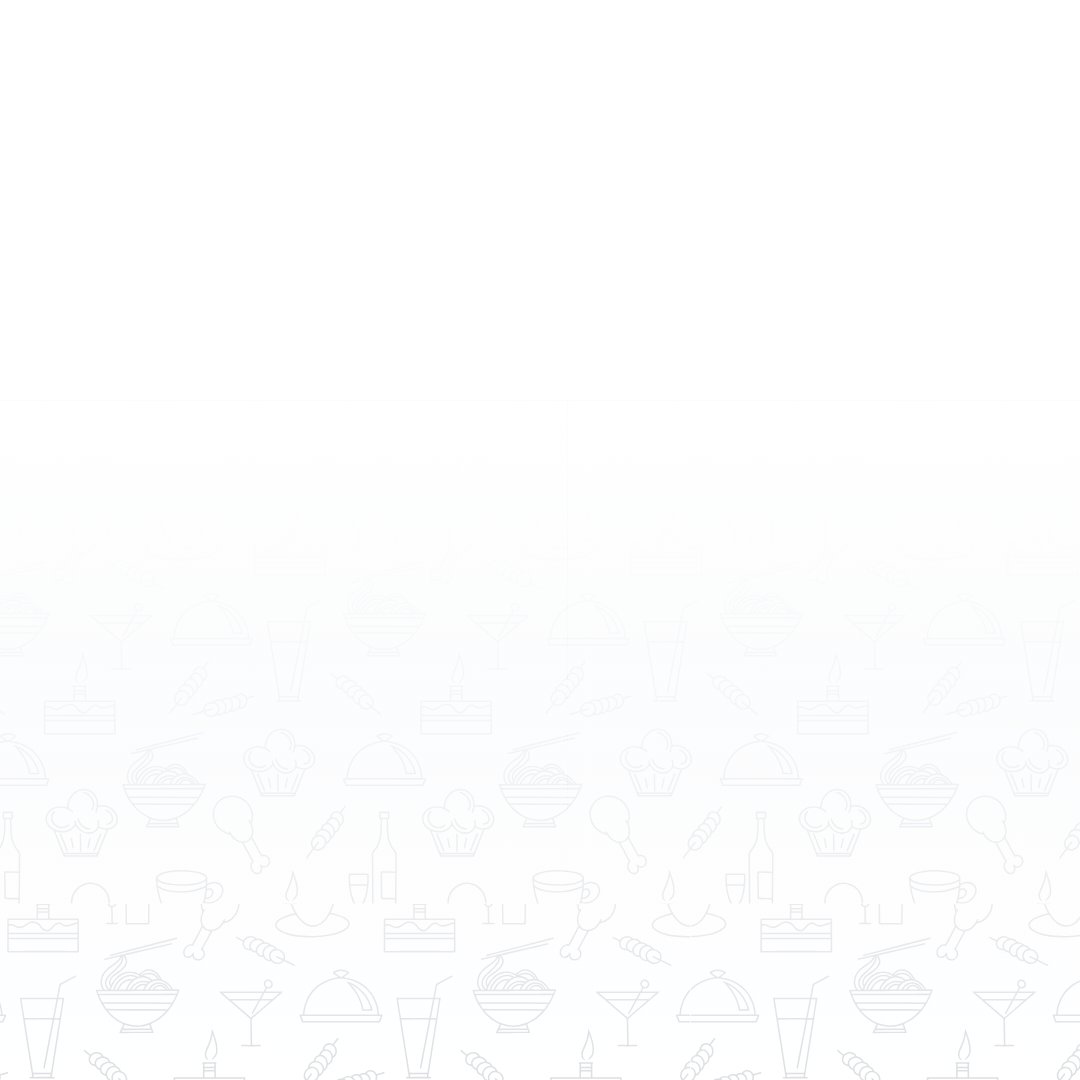
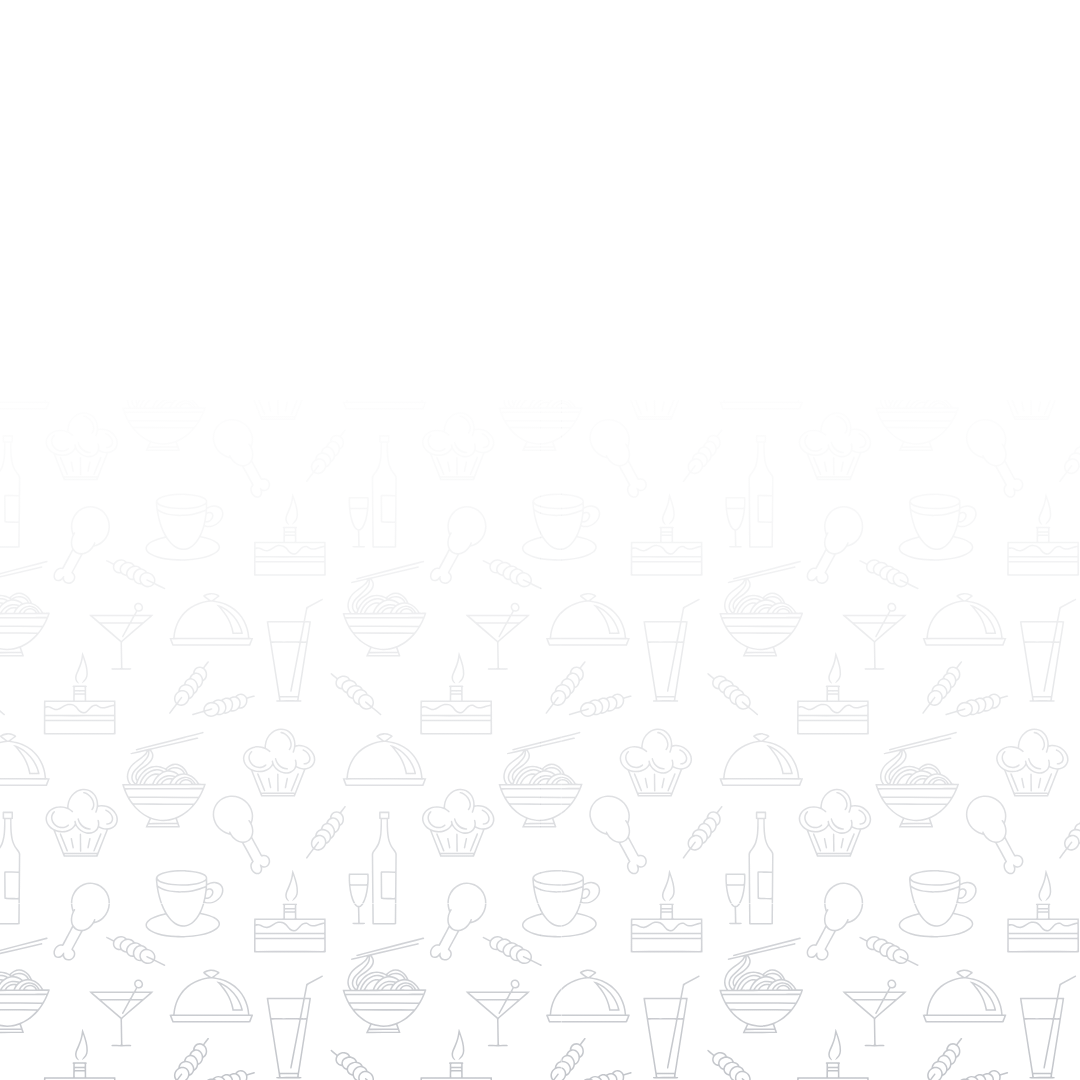
Added: Home, Cart, Favorites, Profile MockupScreens in works

diff --git a/src/app/pages/login/login.page.ts b/src/app/pages/login/login.page.ts
@@ -73,7 +73,7 @@ export class LoginPage implements OnInit, OnDestroy {
 
     const { correo, contrasena } = this.credentials.getRawValue();
 
-    // ✅ USAR email y password como requiere Supabase
+    //USAR email y password como requiere Supabase
     const { data, error } = await this.authService.signIn({
       email: correo,
       password: contrasena,
@@ -118,7 +118,7 @@ export class LoginPage implements OnInit, OnDestroy {
       if (!data) {
         console.log('Insertando perfil completo por primera vez');
 
-        // ✅ Cargar datos temporales si existen
+        // Cargar datos temporales si existen
         const tempData = localStorage.getItem('registro_temp');
         if (tempData) {
           try {
@@ -126,7 +126,7 @@ export class LoginPage implements OnInit, OnDestroy {
             perfilBase.nombre = parsed.nombre || '';
             perfilBase.direccion = parsed.direccion || '';
             perfilBase.telefono = parsed.telefono || '';
-            localStorage.removeItem('registro_temp'); // ✅ Limpiar
+            localStorage.removeItem('registro_temp'); //Limpiar
           } catch (e) {
             console.warn('No se pudo parsear datos de registro_temp');
           }
@@ -140,9 +140,9 @@ export class LoginPage implements OnInit, OnDestroy {
           });
 
         if (error) {
-          console.error('❌ Error al insertar perfil:', error.message);
+          console.error('Error al insertar perfil:', error.message);
         } else {
-          console.log('✅ Perfil insertado correctamente');
+          console.log('Perfil insertado correctamente');
         }
       } else {
         console.log('Perfil ya existe, no se inserta');

diff --git a/src/app/components/navbar/navbar.component.scss b/src/app/components/navbar/navbar.component.scss
@@ -1,0 +1,55 @@
+$primary-yellow: #fab222;
+$primary-red: #8d2516;
+$hover-yellow: #e5a422;
+$color-dark: #120000;
+$white: #ffffff;
+$text-dark: #151515;
+$font-family: "Inter", sans-serif;
+
+.main-navbar-container {
+  position: fixed;
+  bottom: 0;
+  left: 0;
+  right: 0;
+  z-index: 10;
+  display: flex;
+  gap: 25px;
+  justify-content: space-between;
+  align-items: center;
+  padding: 1rem;
+  background-color: $primary-yellow;
+  color: $white;
+  font-family: $font-family;
+  border: 3px solid #120000;
+  height: 90px;
+  margin: 0px 1.3em;
+  margin-bottom: 2.8em;
+  border-radius: 40px; // ✅ Sin bordes redondos si es full width
+}
+
+button {
+  background-color: $hover-yellow;
+  display: flex;
+  height: 100%;
+  border-radius: 20px;
+  align-items: center;
+  justify-items: center;
+  justify-content: center;
+  width: 65px;
+  cursor: pointer;
+}
+
+button ion-icon {
+  font-size: 30px; // puedes ajustar el tamaño
+  color: $primary-red;
+  transition: color 0.3s ease;
+}
+
+button:hover ion-icon {
+  color: $hover-yellow;
+}
+
+button:hover {
+  background-color: $primary-red;
+  box-shadow: 0px 4px 4px rgba(0, 0, 0, 0.25);
+}

diff --git a/src/app/pages/favorite/favorite.page.ts b/src/app/pages/favorite/favorite.page.ts
@@ -2,20 +2,19 @@ import { Component, OnInit } from '@angular/core';
 import { IonicModule } from '@ionic/angular';
 import { CommonModule } from '@angular/common';
 import { FormsModule } from '@angular/forms';
+import { NavbarComponent } from 'src/app/components/navbar/navbar.component';
 import { AuthService } from 'src/app/services/auth.service';
 import { Router } from '@angular/router';
-import { NavbarComponent } from 'src/app/components/navbar/navbar.component';
 
 @Component({
-  selector: 'app-home',
+  selector: 'app-favorite',
   standalone: true,
   imports: [IonicModule, CommonModule, FormsModule, NavbarComponent],
-  templateUrl: './home.page.html',
-  styleUrls: ['./home.page.scss'],
+  templateUrl: './favorite.page.html',
+  styleUrls: ['./favorite.page.scss'],
 })
-export class HomePage implements OnInit {
+export class FavoritePage implements OnInit {
   usuario: any;
-
   constructor(private authService: AuthService, private router: Router) {}
 
   ngOnInit() {

diff --git a/src/app/pages/profile/profile.page.ts b/src/app/pages/profile/profile.page.ts
@@ -7,26 +7,14 @@ import { Router } from '@angular/router';
 import { NavbarComponent } from 'src/app/components/navbar/navbar.component';
 
 @Component({
-  selector: 'app-home',
+  selector: 'app-profile',
   standalone: true,
   imports: [IonicModule, CommonModule, FormsModule, NavbarComponent],
-  templateUrl: './home.page.html',
-  styleUrls: ['./home.page.scss'],
+  templateUrl: './profile.page.html',
+  styleUrls: ['./profile.page.scss'],
 })
-export class HomePage implements OnInit {
-  usuario: any;
+export class ProfilePage implements OnInit {
+  constructor() {}
 
-  constructor(private authService: AuthService, private router: Router) {}
-
-  ngOnInit() {
-    const stored = localStorage.getItem('perfil');
-    if (stored) {
-      this.usuario = JSON.parse(stored);
-    }
-  }
-
-  async logout() {
-    await this.authService.signOut();
-    this.router.navigate(['/']);
-  }
+  ngOnInit() {}
 }

diff --git a/src/app/pages/cart/cart.page.ts b/src/app/pages/cart/cart.page.ts
@@ -7,15 +7,14 @@ import { Router } from '@angular/router';
 import { NavbarComponent } from 'src/app/components/navbar/navbar.component';
 
 @Component({
-  selector: 'app-home',
+  selector: 'app-cart',
   standalone: true,
   imports: [IonicModule, CommonModule, FormsModule, NavbarComponent],
-  templateUrl: './home.page.html',
-  styleUrls: ['./home.page.scss'],
+  templateUrl: './cart.page.html',
+  styleUrls: ['./cart.page.scss'],
 })
-export class HomePage implements OnInit {
+export class CartPage implements OnInit {
   usuario: any;
-
   constructor(private authService: AuthService, private router: Router) {}
 
   ngOnInit() {
@@ -24,7 +23,6 @@ export class HomePage implements OnInit {
       this.usuario = JSON.parse(stored);
     }
   }
-
   async logout() {
     await this.authService.signOut();
     this.router.navigate(['/']);

diff --git a/src/app/pages/register/register.page.ts b/src/app/pages/register/register.page.ts
@@ -66,7 +66,7 @@ export class RegisterPage {
     const { email, password, name, lastname, address, phone } =
       this.credentials.getRawValue();
 
-    // ✅ Guardar datos en localStorage para usarlos tras la verificación
+    // Guardar datos en localStorage para usarlos tras la verificación
     localStorage.setItem(
       'registro_temp',
       JSON.stringify({
@@ -92,7 +92,7 @@ export class RegisterPage {
       return;
     }
 
-    // ✅ Informar que debe confirmar el correo
+    // Informar que debe confirmar el correo
     this.showAlert(
       'Registro exitoso',
       'Revisa tu correo para confirmar tu cuenta antes de iniciar sesión.'

diff --git a/src/app/components/navbar/navbar.component.spec.ts b/src/app/components/navbar/navbar.component.spec.ts
@@ -1,0 +1,22 @@
+import { ComponentFixture, TestBed, waitForAsync } from '@angular/core/testing';
+
+import { NavbarComponent } from './navbar.component';
+
+describe('NavbarComponent', () => {
+  let component: NavbarComponent;
+  let fixture: ComponentFixture<NavbarComponent>;
+
+  beforeEach(waitForAsync(() => {
+    TestBed.configureTestingModule({
+      imports: [NavbarComponent],
+    }).compileComponents();
+
+    fixture = TestBed.createComponent(NavbarComponent);
+    component = fixture.componentInstance;
+    fixture.detectChanges();
+  }));
+
+  it('should create', () => {
+    expect(component).toBeTruthy();
+  });
+});

diff --git a/src/app/components/navbar/navbar.component.html b/src/app/components/navbar/navbar.component.html
@@ -1,0 +1,17 @@
+<div class="main-navbar-container">
+  <button class="home-container" (click)="goTo('/home')">
+    <ion-icon name="storefront-outline"></ion-icon>
+  </button>
+
+  <button class="cart-container" (click)="goTo('/cart')">
+    <ion-icon name="cart-outline"></ion-icon>
+  </button>
+
+  <button class="favorite-container" (click)="goTo('/favorite')">
+    <ion-icon name="heart-outline"></ion-icon>
+  </button>
+
+  <button class="profile-container" (click)="goTo('/profile')">
+    <ion-icon name="happy-outline"></ion-icon>
+  </button>
+</div>

diff --git a/src/app/app-routing.module.ts b/src/app/app-routing.module.ts
@@ -22,6 +22,21 @@ const routes: Routes = [
     loadComponent: () =>
       import('./pages/home/home.page').then((m) => m.HomePage),
   },
+  {
+    path: 'cart',
+    loadComponent: () =>
+      import('./pages/cart/cart.page').then((m) => m.CartPage),
+  },
+  {
+    path: 'favorite',
+    loadComponent: () =>
+      import('./pages/favorite/favorite.page').then((m) => m.FavoritePage),
+  },
+  {
+    path: 'profile',
+    loadComponent: () =>
+      import('./pages/profile/profile.page').then((m) => m.ProfilePage),
+  },
 ];
 
 @NgModule({

diff --git a/src/app/pages/favorite/favorite.module.ts b/src/app/pages/favorite/favorite.module.ts
@@ -1,0 +1,20 @@
+import { NgModule } from '@angular/core';
+import { CommonModule } from '@angular/common';
+import { FormsModule } from '@angular/forms';
+
+import { IonicModule } from '@ionic/angular';
+
+import { FavoritePageRoutingModule } from './favorite-routing.module';
+
+import { FavoritePage } from './favorite.page';
+
+@NgModule({
+  imports: [
+    CommonModule,
+    FormsModule,
+    IonicModule,
+    FavoritePageRoutingModule
+  ],
+  declarations: [FavoritePage]
+})
+export class FavoritePageModule {}

diff --git a/src/app/components/navbar/navbar.component.ts b/src/app/components/navbar/navbar.component.ts
@@ -1,0 +1,20 @@
+import { Component, OnInit } from '@angular/core';
+import { IonicModule } from '@ionic/angular';
+import { Router } from '@angular/router';
+
+@Component({
+  selector: 'app-navbar',
+  imports: [IonicModule],
+  templateUrl: './navbar.component.html',
+  styleUrls: ['./navbar.component.scss'],
+  standalone: true,
+})
+export class NavbarComponent implements OnInit {
+  constructor(private router: Router) {}
+
+  ngOnInit() {}
+
+  goTo(route: string) {
+    this.router.navigate([route]);
+  }
+}

diff --git a/src/app/pages/profile/profile.module.ts b/src/app/pages/profile/profile.module.ts
@@ -1,0 +1,20 @@
+import { NgModule } from '@angular/core';
+import { CommonModule } from '@angular/common';
+import { FormsModule } from '@angular/forms';
+
+import { IonicModule } from '@ionic/angular';
+
+import { ProfilePageRoutingModule } from './profile-routing.module';
+
+import { ProfilePage } from './profile.page';
+
+@NgModule({
+  imports: [
+    CommonModule,
+    FormsModule,
+    IonicModule,
+    ProfilePageRoutingModule
+  ],
+  declarations: [ProfilePage]
+})
+export class ProfilePageModule {}
